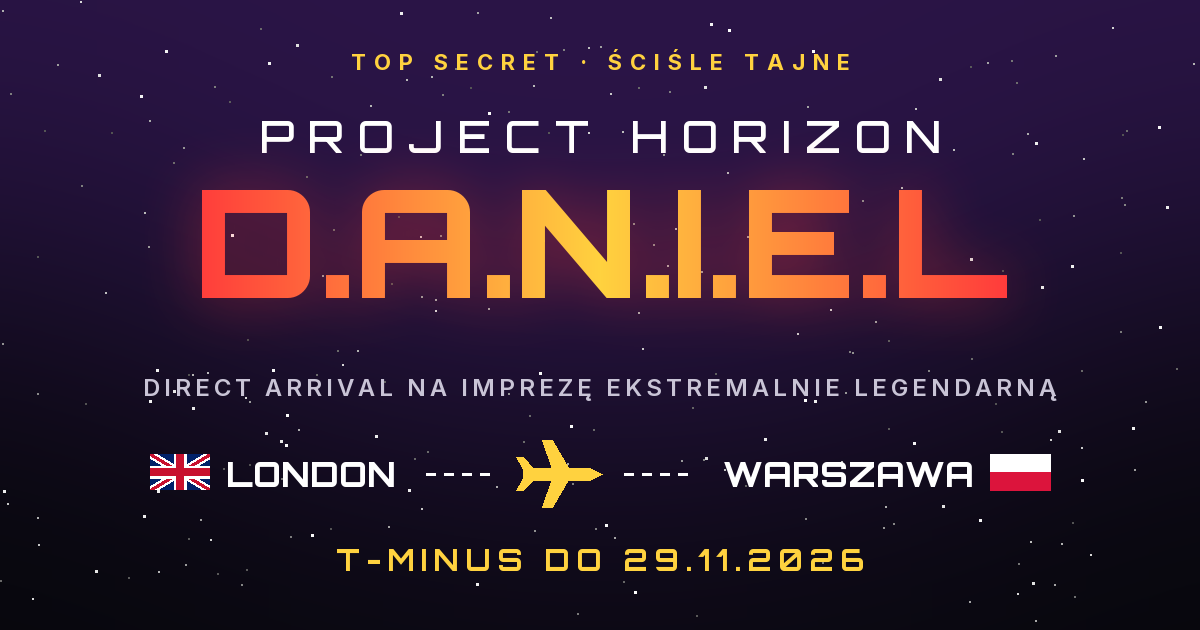
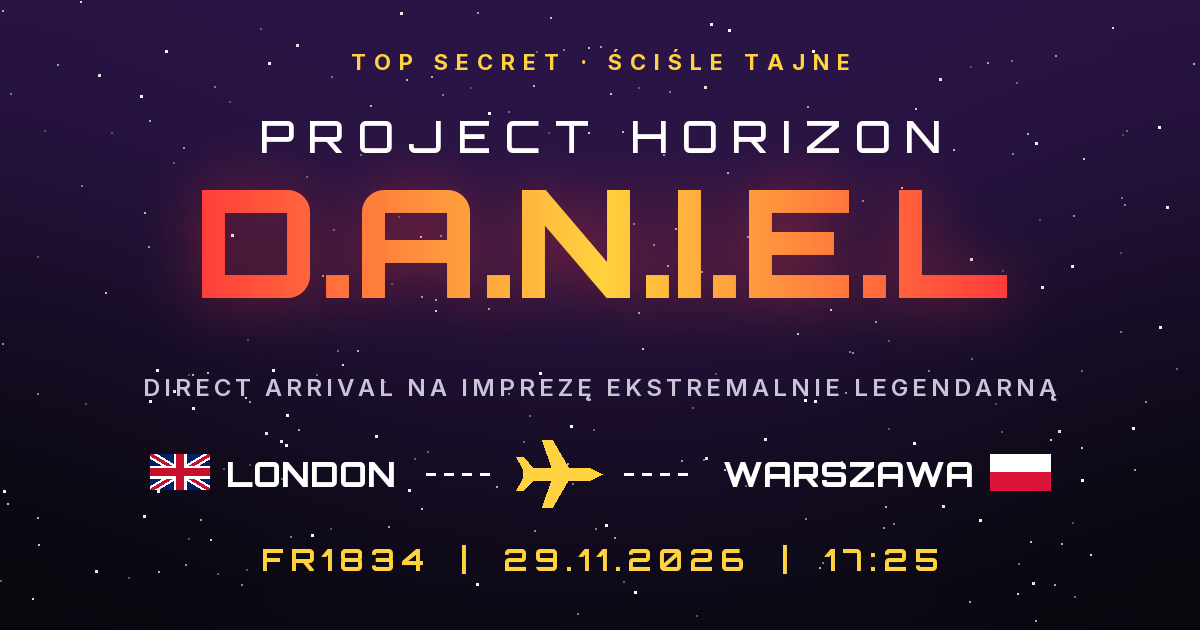
Lot FR1834: licznik do 17:25 w Modlinie, status lotu, FlightRadar, powrót 06.12

Changed region(s): [[0.2158, 0.8746, 0.8017, 0.9048]]

diff --git a/index.html b/index.html
@@ -6,7 +6,7 @@
 <title>PROJECT HORIZON: D.A.N.I.E.L</title>
 <meta property="og:title" content="PROJECT HORIZON: D.A.N.I.E.L">
 <meta property="og:url" content="https://project-daniel.pl">
-<meta property="og:description" content="London → Warszawa · 29.11.2026 · T-minus…">
+<meta property="og:description" content="FR1834 · London Stansted → Warszawa Modlin · 29.11.2026 17:25 · T-minus…">
 <meta property="og:type" content="website">
 <meta property="og:image" content="https://project-daniel.pl/og.png">
 <meta property="og:image:width" content="1200">
@@ -17,10 +17,10 @@
 <style>
   :root{--a:#ff3b3b;--b:#ffd23f;--bg:#07070c}
   *{box-sizing:border-box;margin:0;padding:0}
-  html,body{height:100%}
+  html{height:100%}
   body{background:radial-gradient(ellipse at top,#1b1030 0%,var(--bg) 60%);color:#fff;
     font-family:system-ui,-apple-system,"Segoe UI",Roboto,sans-serif;display:flex;flex-direction:column;
-    align-items:center;justify-content:center;text-align:center;overflow:hidden;padding:24px}
+    align-items:center;justify-content:center;text-align:center;overflow-x:hidden;padding:24px;min-height:100%}
   canvas{position:fixed;inset:0;z-index:-1}
   .tag{letter-spacing:.5em;font-size:.8rem;color:var(--b);text-transform:uppercase;opacity:.85}
   h1{font-size:clamp(2.6rem,10vw,7rem);font-weight:900;line-height:.95;margin:.1em 0 .25em;letter-spacing:.04em;
@@ -67,7 +67,12 @@
     border:1px solid #ffffff1f;backdrop-filter:blur(6px)}
   .n{font-size:clamp(2.2rem,9vw,5rem);font-weight:900;font-variant-numeric:tabular-nums}
   .l{font-size:.75rem;letter-spacing:.3em;opacity:.6;text-transform:uppercase}
-  .foot{margin-top:2.5rem;opacity:.5;font-size:.85rem}
+  .status{margin-top:2rem;font-size:clamp(.7rem,2.2vw,.9rem);letter-spacing:.2em;text-transform:uppercase;font-weight:700;
+    color:var(--b);padding:.7em 1.3em;border:1px solid #ffd23f44;border-radius:999px;background:#ffd23f0d}
+  .status a{color:#fff}
+  .status.air{animation:blink 1.4s ease-in-out infinite}
+  @keyframes blink{50%{border-color:#ffd23f;box-shadow:0 0 24px #ffd23f55}}
+  .foot{margin-top:1.5rem;opacity:.5;font-size:.85rem}
   .done h1{animation:sh 1.2s linear infinite}
 </style>
 </head>
@@ -86,16 +91,29 @@
   <div class="u"><div class="n" id="m">--</div><div class="l">minut</div></div>
   <div class="u"><div class="n" id="sec">--</div><div class="l">seconds</div></div>
 </div>
-<div class="foot">29.11.2026 · No more fish &amp; chips, czas na pierogi.</div>
+<div class="status" id="st"></div>
+<div class="foot">29.11.2026 · 17:25 · Stansted → Modlin · No more fish &amp; chips, czas na pierogi.</div>
 <script>
 // Cel: 29.11.2026 00:00 czasu warszawskiego. Godzinę lądowania zmień tutaj. Test finału: ?test=10 (sekund).
 const q=+new URLSearchParams(location.search).get("test");
-const T=q?Date.now()+q*1000:new Date("2026-11-29T00:00:00+01:00").getTime(),S=q?Date.now()-60000:new Date("2026-11-01T00:00:00+01:00").getTime();
+// FR1834: Stansted 29.11 14:10 (UK) = 15:10 PL → Modlin 17:25 PL. Powrót FR1835: 06.12 12:15 PL. Test finału: ?test=10 (sekund).
+const T=q?Date.now()+q*1000:Date.parse("2026-11-29T17:25:00+01:00"),
+  OFF=q?T-30000:Date.parse("2026-11-29T15:10:00+01:00"),DAY=q?T-60000:Date.parse("2026-11-29T00:00:00+01:00"),
+  BACK=Date.parse("2026-12-06T12:15:00+01:00");
 const $=id=>document.getElementById(id),p=n=>String(n).padStart(2,"0");
+const FR='<a href="https://www.flightradar24.com/data/flights/fr1834" target="_blank" rel="noopener">FlightRadar ↗</a>';
+let stLast="";
+function status(now){
+  const t=now<DAY?"🧳 STATUS: PACKING · FR1834 · STN 14:10 → WMI 17:25"
+    :now<OFF?"🛂 STATUS: CHECK-IN · BOARDING SOON · FR1834 STN 14:10"
+    :"✈ STATUS: IN THE AIR · FR1834 → MODLIN 17:25 · "+FR;
+  if(t!==stLast){$("st").innerHTML=t;$("st").classList.toggle("air",now>=OFF);stLast=t}
+}
 function tick(){
-  let r=T-Date.now();
-  $("pl").style.left=Math.min(100,Math.max(0,(Date.now()-S)/(T-S)*100))+"%";
+  const now=Date.now(),r=T-now;
+  $("pl").style.left=Math.min(100,Math.max(0,(now-OFF)/(T-OFF)*100))+"%";
   if(r<=0){finale();return}
+  status(now);
   $("d").textContent=Math.floor(r/864e5);$("h").textContent=p(Math.floor(r/36e5)%24);
   $("m").textContent=p(Math.floor(r/6e4)%60);$("sec").textContent=p(Math.floor(r/1e3)%60);
   setTimeout(tick,1000-Date.now()%1000);
@@ -103,7 +121,10 @@ function tick(){
 function finale(){
   document.body.classList.add("done");document.title="🍻 DANIEL IS IN DA HOUSE";
   $("cd").innerHTML='<div><div class="win">🍻 DANIEL IS IN DA HOUSE 🍻</div><button id="snd">🔊 TOUCHDOWN</button></div>';
-  $("sub").textContent="Witamy w Polsce, mordo. Mission accomplished.";
+  const left=BACK-Date.now(),dd=Math.ceil(left/864e5);
+  $("sub").textContent=left>0?"Witamy w Polsce, mordo. Mission accomplished.":"Mission complete. See you next time, Daniel 🫡";
+  $("st").innerHTML=left>0?"🇵🇱 STATUS: ON THE GROUND · powrót FR1835 06.12"+(dd>0?" · zostało "+dd+(dd===1?" dzień":" dni"):""):"🇬🇧 STATUS: BACK IN LONDON";
+  $("st").classList.remove("air");
   $("snd").onclick=landing;confetti();
 }
 // muzyka: YouTube (nowy), start po kliknięciu – autoplay jest blokowany
